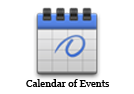
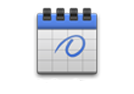
[1.0.6] Adds Header Right sidebar for top links
* Removes embedded links in header
* Removes text from header icons
* Restyles links widget in header right sidebar

Changed region(s): [[0.1791, 0.8298, 0.8358, 0.9362]]

diff --git a/style.css b/style.css
@@ -1,11 +1,10 @@
 /*
 Theme Name:     iFeature Anthro
-Theme URI:		
-Description:    Anthro Child Theme
+Theme URI:		http://it.clas.ufl.edu/
+Description:    Custom template for Department of Anthropology. Child theme of iFeaturePro 5. Maintained by UF CLAS IT.
 Author:         Carin Handsun
-Author URI:		
 Template:       ifeaturepro5
-Version:        1.0.5
+Version:        1.0.6
 */
  
 @import url("../ifeaturepro5/style.css");
@@ -183,4 +182,33 @@ color: #417CAB!important;
 #sidebar h3.widget-title {
     color: #FFFFFF !important;
     font-weight: 100;
+}
+
+#header-right {
+	max-height:100px;
+	padding-top:10px;
+	overflow: hidden;
+}
+#header-right h2.widgettitle {
+	display: none;
+}
+#header-right ul, #header-right li {
+	margin: 0;
+	list-style: none;
+	display: block;
+}
+#header-right .widget_links li {
+	width: 134px;
+	float: left;
+	text-align: center;
+}
+#header-right .widget_links li a:link,
+#header-right .widget_links li a:visited {
+	font-size: 11px;
+	font-weight: bold;
+	color: #000;
+}
+#header-right .widget_links img {
+	display: block;
+	margin-bottom: -16px;
 }

diff --git a/header.php b/header.php
@@ -69,8 +69,13 @@
         </div>
        
         <div class="top-head-social span6">
-        <div style="height:94px;padding-top:10px;"><a href="/?p=2034"><img src="<?php echo get_stylesheet_directory_uri(); ?>/images/mail.png" width="134" height="94" /></a><a href="<?php echo home_url(); ?>/?page_id=604"><img src="<?php echo get_stylesheet_directory_uri(); ?>/images/calendar.png" width="134" height="94" /></a><a href="<?php echo home_url(); ?>/courses-current-semester/"><img src="<?php echo get_stylesheet_directory_uri(); ?>/images/contents.png" width="134" height="94" /></a></div>
-        	
+		<!-- start header-right widgets -->
+		<?php if ( is_active_sidebar( 'header-right' ) ) : ?>
+			<div id="header-right">
+			<?php dynamic_sidebar( 'header-right' ); ?>
+			</div>
+		<?php endif; ?>
+        <!-- end header-right -->
         </div>
         </div>
         </div>

diff --git a/functions.php b/functions.php
@@ -11,3 +11,18 @@ function ufclas_add_script(){
 	<![endif]-->';
 }
 add_action('wp_print_styles', 'ufclas_add_script');
+
+// Register Header Right Sidebar
+function ufclas_header_right_sidebar() {
+
+	$args = array(
+		'id'            => 'header-right',
+		'name'          => __( 'Header Right', 'ufclas' ),
+		'description'   => __( 'Widgets will appear in the header right', 'ufclas' ),
+		'before_widget' => '<div id="%1$s" class="widget %2$s">',
+		'after_widget'  => '</div>',
+	);
+	register_sidebar( $args );
+
+}
+add_action( 'widgets_init', 'ufclas_header_right_sidebar' );

diff --git a/README.md b/README.md
@@ -1,0 +1,29 @@
+iFeature Anthro
+================
+
+Custom template for Department of Anthropology. Child theme of iFeaturePro 5. Maintained by UF CLAS IT.
+
+Theme Name:     iFeature Anthro
+Theme URI:		http://it.clas.ufl.edu/
+Description:    Anthro Child Theme
+Author:         Carin Handsun
+Template:       ifeaturepro5
+
+Changelog
+----------
+
+[1.0.6] Adds ability to update header links in header right sidebar
+[1.0.5] Updates header current courses list 
+[1.0.4] Updates header contact and logo link 
+[1.0.3] Fixes to add IE compatibility js update map animation 
+[1.0.2] Adding CSS transitions to hover for map 	
+[1.0.1] Converting theme to remove hard-coded urls 	
+[1.0.0] Initial child theme
+
+Documentation
+--------------
+
+
+To-Do
+------
+* Fix responsive styles
